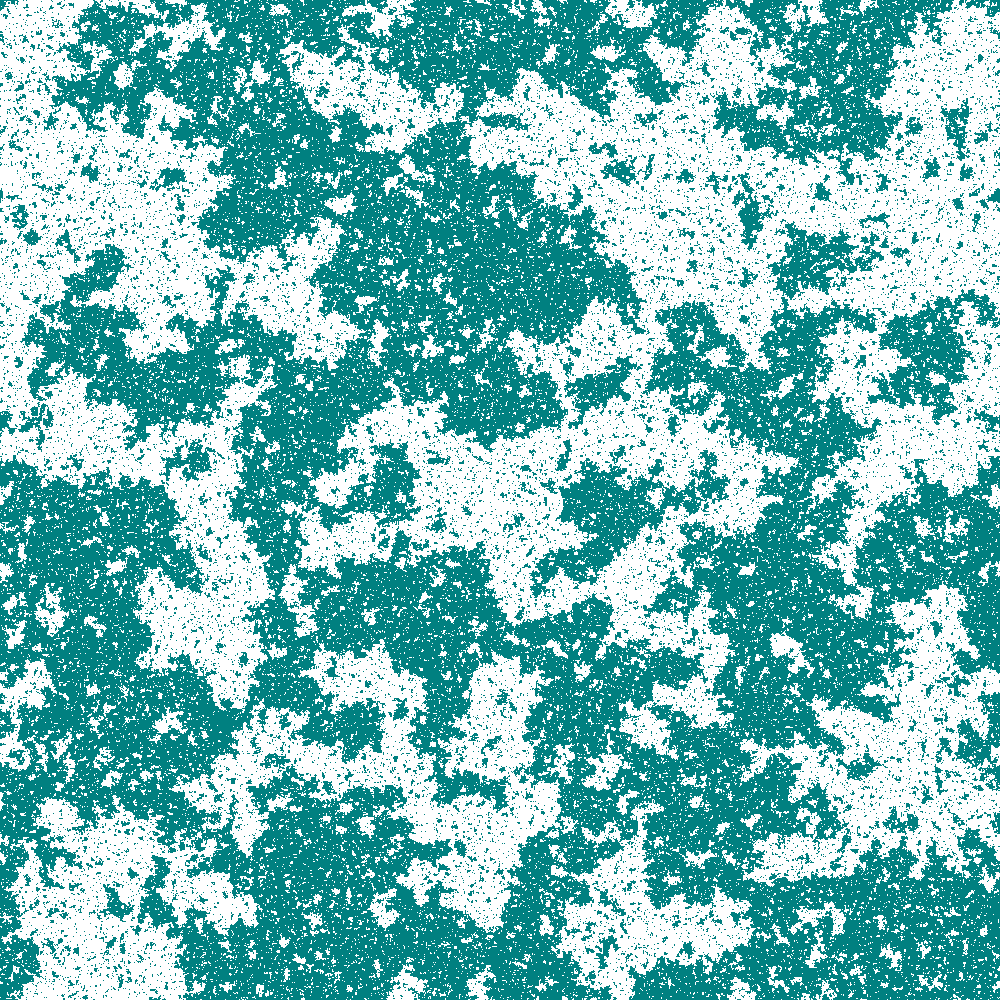
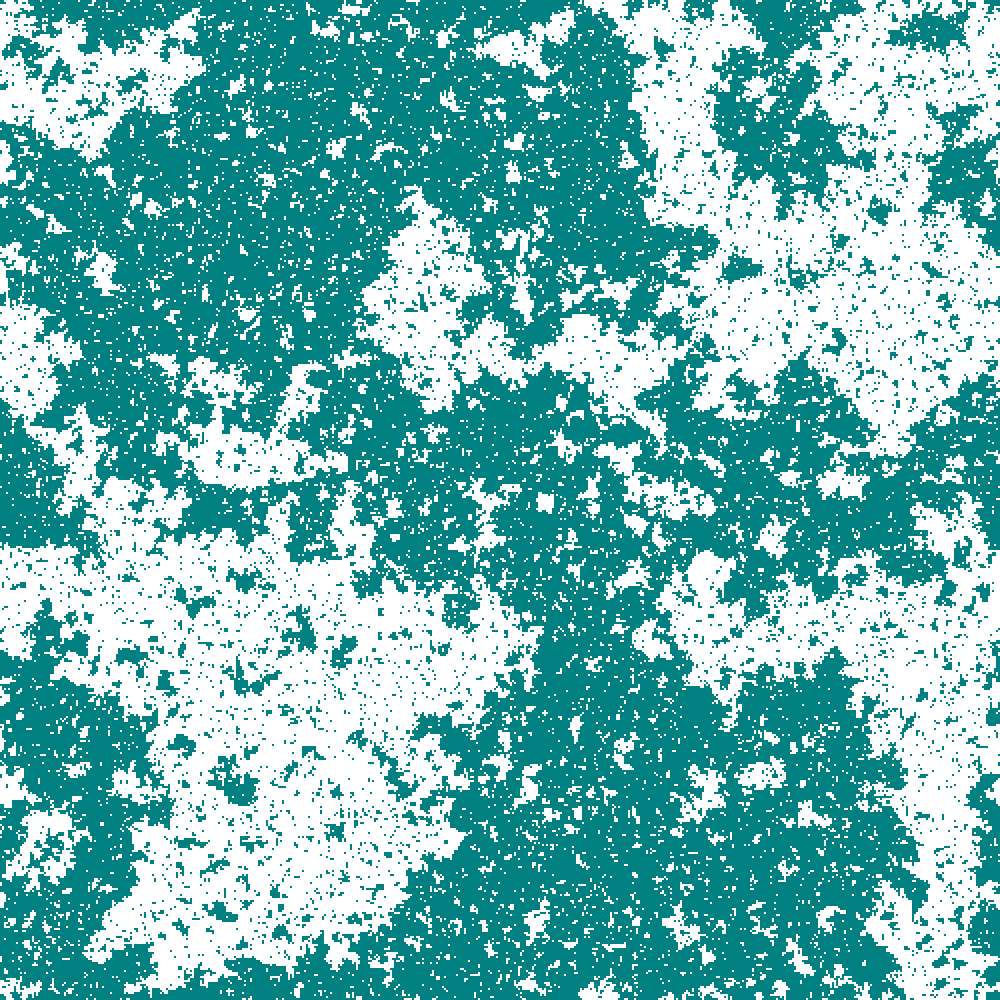
Added a README with basic instructions on use.

diff --git a/src/main.rs b/src/main.rs
@@ -14,8 +14,8 @@ for anyone iterested in testing for the comparison.
 */
 
 fn main() {
-    let t = 2. / log(1. + sqrt(2.));
-    // println!("{:#?}", t);
+    let t = 2. / log(1. + sqrt(2.)); //The critical temperature of a 2D Ising model.
+
     run(true, t);
 }
 /*
@@ -25,7 +25,7 @@ in principle, but I will use 1 for the classic ferromagnetic case.
 */
 const J: i8 = 1;
 const STEPS: usize = 1000;
-const SIDE: usize = 1000; // Making a default for square arrays
+const SIDE: usize = 500; // Making a default for square arrays
 const NPIXELS: u32 = 1000; // Used for giving the size of a side of the PNG.
 const NROWS: usize = SIDE;
 const NCOLUMNS: usize = SIDE;
@@ -52,7 +52,7 @@ fn run(order: bool, t: f64) {
     */
     if order == true {
         for x in &mut arr {
-            if rng.gen::<f32>() > 0.5 {
+            if *&rng.gen::<f32>() > 0.5 {
                 *x = 1i8
             } else {
                 *x = -1i8
@@ -91,6 +91,7 @@ fn run(order: bool, t: f64) {
     the top wraps to the bottom. If the energy is lowered by fliping the site's spin we
     do so, otherwise we flip the spin with probability exp(-2 * energy at the site * beta).
     */
+
     for _ in 0..STEPS {
         for j in 0..NCOLUMNS {
             for i in 0..NROWS {
@@ -106,10 +107,10 @@ fn run(order: bool, t: f64) {
                 let site = &arr[i * NROWS + j];
 
                 let en = J * site * (nn + ss + ww + ee);
-                let pcomp = rng.gen::<f64>();
+                let pcomp = &rng.gen::<f64>();
 
                 let k = 4 + en;
-                if pcomp < probs[k as usize] {
+                if *pcomp < probs[k as usize] {
                     arr[i * NROWS + j] = -1 * arr[i * NROWS + j];
                 }
             }

diff --git a/README.md b/README.md
@@ -1,0 +1,1 @@
+This project is a simple excerise in implementing a 2D ising model in Rust. The model's parameters are all in the consts delcaration at the top of main.rs. Most of them are self explanatory, with those that are more obscure commented in the code. To change the overall size of the calculation, you can alter the number of full passes of the system: NSTEPS, or change the length of the array on one side: SIDE. Currenty, I have it so that only square arrays are considered, but changing it to work with rectangular arrays is as simple as changing the NROWS = NSIDE to be some other usize number and the same for NCOLUMNS. Once compiled simply running the binary will step the sytem through the provided number of iterations and plot the randomized initial state, and domain ridden final state assuming the temperature remains unchanged. The model depends on the temperature to evolve to the most likely ensemble. If T is greater than ~ 2.26 then the system prefers random oriented spins, if T is below that it prefers domains where the spins are all aligned, with the final state at very low temperature being all oriented the same direction.
